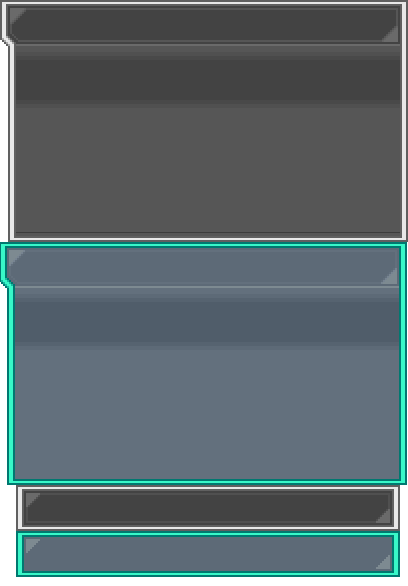
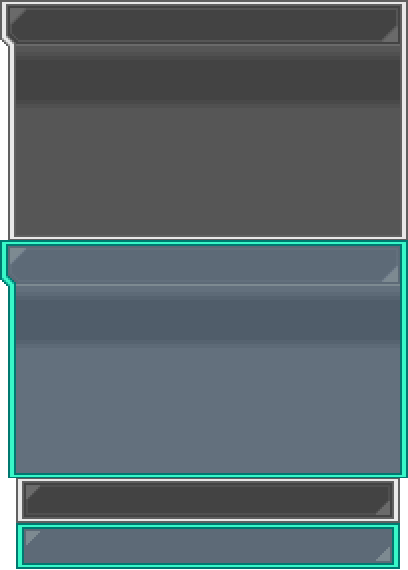
Correcciones multisave

Changed region(s): [[0.0, 0.3877, 1.0, 1.0], [0.9412, 0.0596, 0.9706, 0.0895], [0.0, 0.0596, 0.0294, 0.0895]]

diff --git a/LA BASE DE SKY/Data/Scripts/048_UI/028_UI_Save.rb b/LA BASE DE SKY/Data/Scripts/048_UI/028_UI_Save.rb
@@ -11,8 +11,8 @@ class UI::SavePanel < UI::SpriteContainer
     :male    => [Color.new(0, 112, 248), Color.new(120, 184, 232)],
     :female  => [Color.new(232, 32, 16), Color.new(248, 168, 184)]
   }
-  PANEL_WIDTH  = 384
-  PANEL_HEIGHT = 204
+  PANEL_WIDTH  = 410
+  PANEL_HEIGHT = 239
 
   def initialize(save_data, viewport)
     @save_data = save_data
@@ -157,7 +157,7 @@ class UI::SavePanel < UI::SpriteContainer
 
   def draw_save_file_text
     if !@save_data
-      draw_text(_INTL("Create a new save file"), width / 2, (height / 2) - 10, align: :center)
+      draw_text(_INTL("Guardar en un nuevo archivo"), width / 2, (height / 2) - 10, align: :center)
       return
     end
     gender_theme = :default
@@ -175,13 +175,13 @@ class UI::SavePanel < UI::SpriteContainer
     map_name = map_name.gsub(/\\v\[(\d+)\]/) { |num| @save_data[:variables][$~[1].to_i].to_s }
     draw_text(map_name, 14, 78)
     # Gym Badges
-    draw_text(_INTL("Medallas:"), 14, 110, theme: :white)
+    draw_text(_INTL("Medallas:"), 18, 110, theme: :white)
     draw_text(@save_data[:player].badge_count.to_s, 222, 110, align: :right)
     # Pokédex owned count
-    draw_text(_INTL("Pokédex:"), 14, 142, theme: :white)
+    draw_text(_INTL("Pokédex:"), 18, 142, theme: :white)
     draw_text(@save_data[:player].pokedex.seen_count.to_s, 222, 142, align: :right)
     # Time played
-    draw_text(_INTL("Tiempo:"), 14, 174, theme: :white)
+    draw_text(_INTL("Tiempo:"), 18, 174, theme: :white)
     play_time = @save_data[:stats]&.real_play_time.to_i || 0
     hour = (play_time / 60) / 60
     min  = (play_time / 60) % 60
@@ -191,7 +191,7 @@ class UI::SavePanel < UI::SpriteContainer
     if save_time
       save_time = Time.at(save_time)
       if System.user_language[3..4] == "US"   # If the user is in the United States
-        save_text = save_time.strftime("%m/&d/%Y")
+        save_text = save_time.strftime("%m/%d/%Y")
       else
         save_text = save_time.strftime("%d/%m/%Y")
       end
@@ -218,7 +218,7 @@ class UI::SaveVisuals < UI::BaseVisuals
   TEXT_COLOR_THEMES = {   # These color themes are added to @sprites[:overlay]
     :default => [Color.new(80, 80, 88), Color.new(176, 192, 192)]   # Base and shadow colour
   }
-  PANEL_SPACING   = 8
+  PANEL_SPACING   = 2
 
   # save_data here is an array of [save filename, save data hash]. It has been
   # compacted.
@@ -283,6 +283,7 @@ class UI::SaveVisuals < UI::BaseVisuals
     # Show the newly selected slot's information in the Continue panel
     this_save_data = (@save_data[@index]) ? @save_data[@index][1] : nil
     @sprites[:continue].set_data(this_save_data)
+    
     # Show the newly adjacent slots' information in the adjacent Continue panels
     prev_index = @index - 1
     prev_index += @save_data.length + 1 if prev_index < 0
@@ -331,11 +332,7 @@ class UI::SaveVisuals < UI::BaseVisuals
             else
               draw_text(_INTL("Tiempo de juego desde el guardado: {1}m", min), 8, 4)
             end
-          else
-            draw_text(_INTL("¡Versión alternativa de tu aventura!"), 8, 4)
           end
-        else
-          draw_text(_INTL("¡Otra aventura!"), 8, 4)
         end
       end
       if @save_data[@index]
@@ -476,7 +473,7 @@ class UI::Save < UI::BaseScreen
   end
 
   # NOTE: Save filenames are "Game#.rxdata" where "#" is slot_index, except for
-  #       0 which just produces "Game.rzdata". This is to support old save
+  #       0 which just produces "Game.rxdata". This is to support old save
   #       files which are that name.
   def save_game(file_number)
     # TODO: I don't know about this "GUI save choice" being here.

diff --git a/LA BASE DE SKY/Data/Scripts/048_UI/027_UI_Load.rb b/LA BASE DE SKY/Data/Scripts/048_UI/027_UI_Load.rb
@@ -1,6 +1,8 @@
 module UI::LoadSaveDataMixin
   def load_all_save_data
     @save_data = []
+    # Renombra los archivos de guardado del Plugin de AutoMultiSave
+    SaveData.rename_save_files 
     files = SaveData.all_save_files
     files.each do |file|
       this_save_data = load_save_file(SaveData::DIRECTORY, file)
@@ -93,9 +95,9 @@ class UI::LoadPanel < UI::SpriteContainer
 
   def panel_srcs
     return {
-      :default  => [graphics_folder + "panels_new", 0, UI::LoadContinuePanel::PANEL_HEIGHT * 2,
+      :default  => [File.join(graphics_folder, "panels_new"), 0, UI::LoadContinuePanel::PANEL_HEIGHT * 2,
                     self.class::PANEL_WIDTH, self.class::PANEL_HEIGHT],
-      :selected => [graphics_folder + "panels_new", 0, (UI::LoadContinuePanel::PANEL_HEIGHT * 2) + self.class::PANEL_HEIGHT,
+      :selected => [File.join(graphics_folder, "panels_new"), 0, (UI::LoadContinuePanel::PANEL_HEIGHT * 2) + self.class::PANEL_HEIGHT,
                     self.class::PANEL_WIDTH, self.class::PANEL_HEIGHT]
     }
   end
@@ -188,8 +190,8 @@ class UI::LoadContinuePanel < UI::LoadPanel
 
   def panel_srcs
     return {
-      :default  => [graphics_folder + "panels_new", 0, 0, self.class::PANEL_WIDTH, self.class::PANEL_HEIGHT],
-      :selected => [graphics_folder + "panels_new", 0, self.class::PANEL_HEIGHT, self.class::PANEL_WIDTH, self.class::PANEL_HEIGHT]
+      :default  => [File.join(graphics_folder, "panels_new"), 0, 0, self.class::PANEL_WIDTH, self.class::PANEL_HEIGHT],
+      :selected => [File.join(graphics_folder, "panels_new"), 0, self.class::PANEL_HEIGHT, self.class::PANEL_WIDTH, self.class::PANEL_HEIGHT]
     }
   end
 
@@ -264,15 +266,15 @@ class UI::LoadContinuePanel < UI::LoadPanel
     map_name = pbGetMapNameFromId(map_id)
     map_name = map_name.gsub(/\\PN/, @save_data[:player].name)
     map_name = map_name.gsub(/\\v\[(\d+)\]/) { |num| @save_data[:variables][$~[1].to_i].to_s }
-    draw_text(map_name, 18, 114, theme: gender_theme)
+    draw_text(map_name, 20, 114, theme: gender_theme)
     # Gym Badges
-    draw_text(_INTL("Medallas:"), 18, 146)
+    draw_text(_INTL("Medallas:"), 20, 146)
     draw_text(@save_data[:player].badge_count.to_s, 156, 146, theme: gender_theme)
     # Pokédex owned count
-    draw_text(_INTL("Pokédex:"), 18, 178)
+    draw_text(_INTL("Pokédex:"), 20, 178)
     draw_text(@save_data[:player].pokedex.seen_count.to_s, 156, 178, theme: gender_theme)
     # Time played
-    draw_text(_INTL("Tiempo:"), 18, 210)
+    draw_text(_INTL("Tiempo:"), 20, 210)
     play_time = @save_data[:stats]&.play_time.to_i || 0
     hour = (play_time / 60) / 60
     min  = (play_time / 60) % 60

diff --git a/LA BASE DE SKY/Data/Scripts/007_Save data/002_SaveData.rb b/LA BASE DE SKY/Data/Scripts/007_Save data/002_SaveData.rb
@@ -13,18 +13,33 @@ module SaveData
     return !all_save_files.empty?
   end
 
-    # @return [Array] listado de los nombres de todos los archivos de guardado
-    def self.all_save_files
-      files = Dir.get(DIRECTORY, "*", false)
-      ret = []
-      files.each do |file|
-        next if !file[FILENAME_REGEX]
-        ret.push([$~[1].to_i, file])
-      end
-      ret.sort! { |a, b| a[0] <=> b[0] }
-      ret.map! { |val| val[1] }
-      return ret
+  # @return [Array] listado de los nombres de todos los archivos de guardado
+  def self.all_save_files
+    files = Dir.get(DIRECTORY, "*", false)
+    ret = []
+    files.each do |file|
+      next if !file[FILENAME_REGEX]
+      ret.push([$~[1].to_i, file])
     end
+    ret.sort! { |a, b| a[0] <=> b[0] }
+    ret.map! { |val| val[1] }
+    return ret
+  end
+
+  def self.rename_save_files
+    files = Dir.get(DIRECTORY, "*", false)
+    files.each do |file|
+      next if !file.end_with?(".rxdata") || file.start_with?("Game")
+      old_path = File.join(DIRECTORY, file)
+      max_index = SaveData.get_max_index
+      new_path = File.join(DIRECTORY, filename_from_index(max_index+1))
+      begin
+        File.rename(old_path, new_path)
+      rescue SystemCallError
+        # Failed to rename file, skip it
+      end
+    end
+  end
 
   # Obtiene los datos de guardado del archivo proporcionado.
   # Devuelve un Array en el caso de un archivo de guardado anterior a la 
@@ -85,6 +100,20 @@ module SaveData
   def self.filename_from_index(index = 0)
     return "Game.rxdata" if index <= 0
     return "Game#{index}.rxdata"
+  end
+
+  def self.get_max_index
+    files = Dir.get(DIRECTORY, "Game*.rxdata", false)
+    echoln "files #{files}"
+    max_index = 0
+    files.each do |f|
+      next if f.end_with?(".bak")
+      filename = File.basename(f)
+      next unless filename =~ FILENAME_REGEX
+      index = $1.to_i
+      max_index = index if index > max_index
+    end
+    return max_index
   end
 
   # Convierte los datos de formato anterior a la versión 19 al nuevo formato.

diff --git a/LA BASE DE SKY/Data/Scripts/007_Save data/004_SaveData_Conversion.rb b/LA BASE DE SKY/Data/Scripts/007_Save data/004_SaveData_Conversion.rb
@@ -170,7 +170,7 @@ module SaveData
   def self.get_conversions(save_data)
     conversions_to_run = []
     versions = {
-      essentials: save_data[:essentials_version] || "18.1",
+      essentials: save_data[:essentials_version] || "21.1",
       game:       save_data[:game_version] || "0.0.0"
     }
     [:essentials, :game].each do |trigger_type|
@@ -196,7 +196,7 @@ module SaveData
     validate save_data => Hash
     conversions_to_run = self.get_conversions(save_data)
     return false if conversions_to_run.none?
-    filepath = SaveData::DIRECTORY + SaveData.filename_from_index(save_data[:stats].save_filename_number || 0)
+    filepath = File.join(SaveData::DIRECTORY, SaveData.filename_from_index(save_data[:stats].save_filename_number || 0))
     File.open(filepath + ".bak", "wb") { |f| Marshal.dump(save_data, f) }
     Console.echo_h1(_INTL("Converting save file"))
     conversions_to_run.each do |conversion|

diff --git a/LA BASE DE SKY/Data/Scripts/048_UI/000_UI_base.rb b/LA BASE DE SKY/Data/Scripts/048_UI/000_UI_base.rb
@@ -443,7 +443,7 @@ module UI
       @sprites[:speech_box].visible = true
       @sprites[:speech_box].text    = text
       position_speech_box(text)
-      using(cmd_window = Window_CommandPokemon.new([_INTL("Yes"), _INTL("No")])) do
+      using(cmd_window = Window_CommandPokemon.new([_INTL("Sí"), _INTL("No")])) do
         cmd_window.z       = @viewport.z + 1
         cmd_window.visible = false
         pbBottomRight(cmd_window)
@@ -477,7 +477,7 @@ module UI
       @sprites[:speech_box].visible = true
       @sprites[:speech_box].text    = text
       position_speech_box(text)
-      using(cmd_window = Window_CommandPokemon.new([_INTL("No"), _INTL("Yes")])) do
+      using(cmd_window = Window_CommandPokemon.new([_INTL("No"), _INTL("Sí")])) do
         cmd_window.z       = @viewport.z + 1
         cmd_window.visible = false
         pbBottomRight(cmd_window)

diff --git a/LA BASE DE SKY/Data/Scripts/007_Save data/006_Game_SaveConversions.rb b/LA BASE DE SKY/Data/Scripts/007_Save data/006_Game_SaveConversions.rb
@@ -420,7 +420,7 @@ SaveData.register_conversion(:v21_add_bump_stat) do
 end
 
 SaveData.register_conversion(:v22_add_adventure_magic_number) do
-  essentials_version 22
+  essentials_version 21
   display_title "Adding adventure ID"
   to_value :game_system do |game_system|
     game_system.instance_eval do
